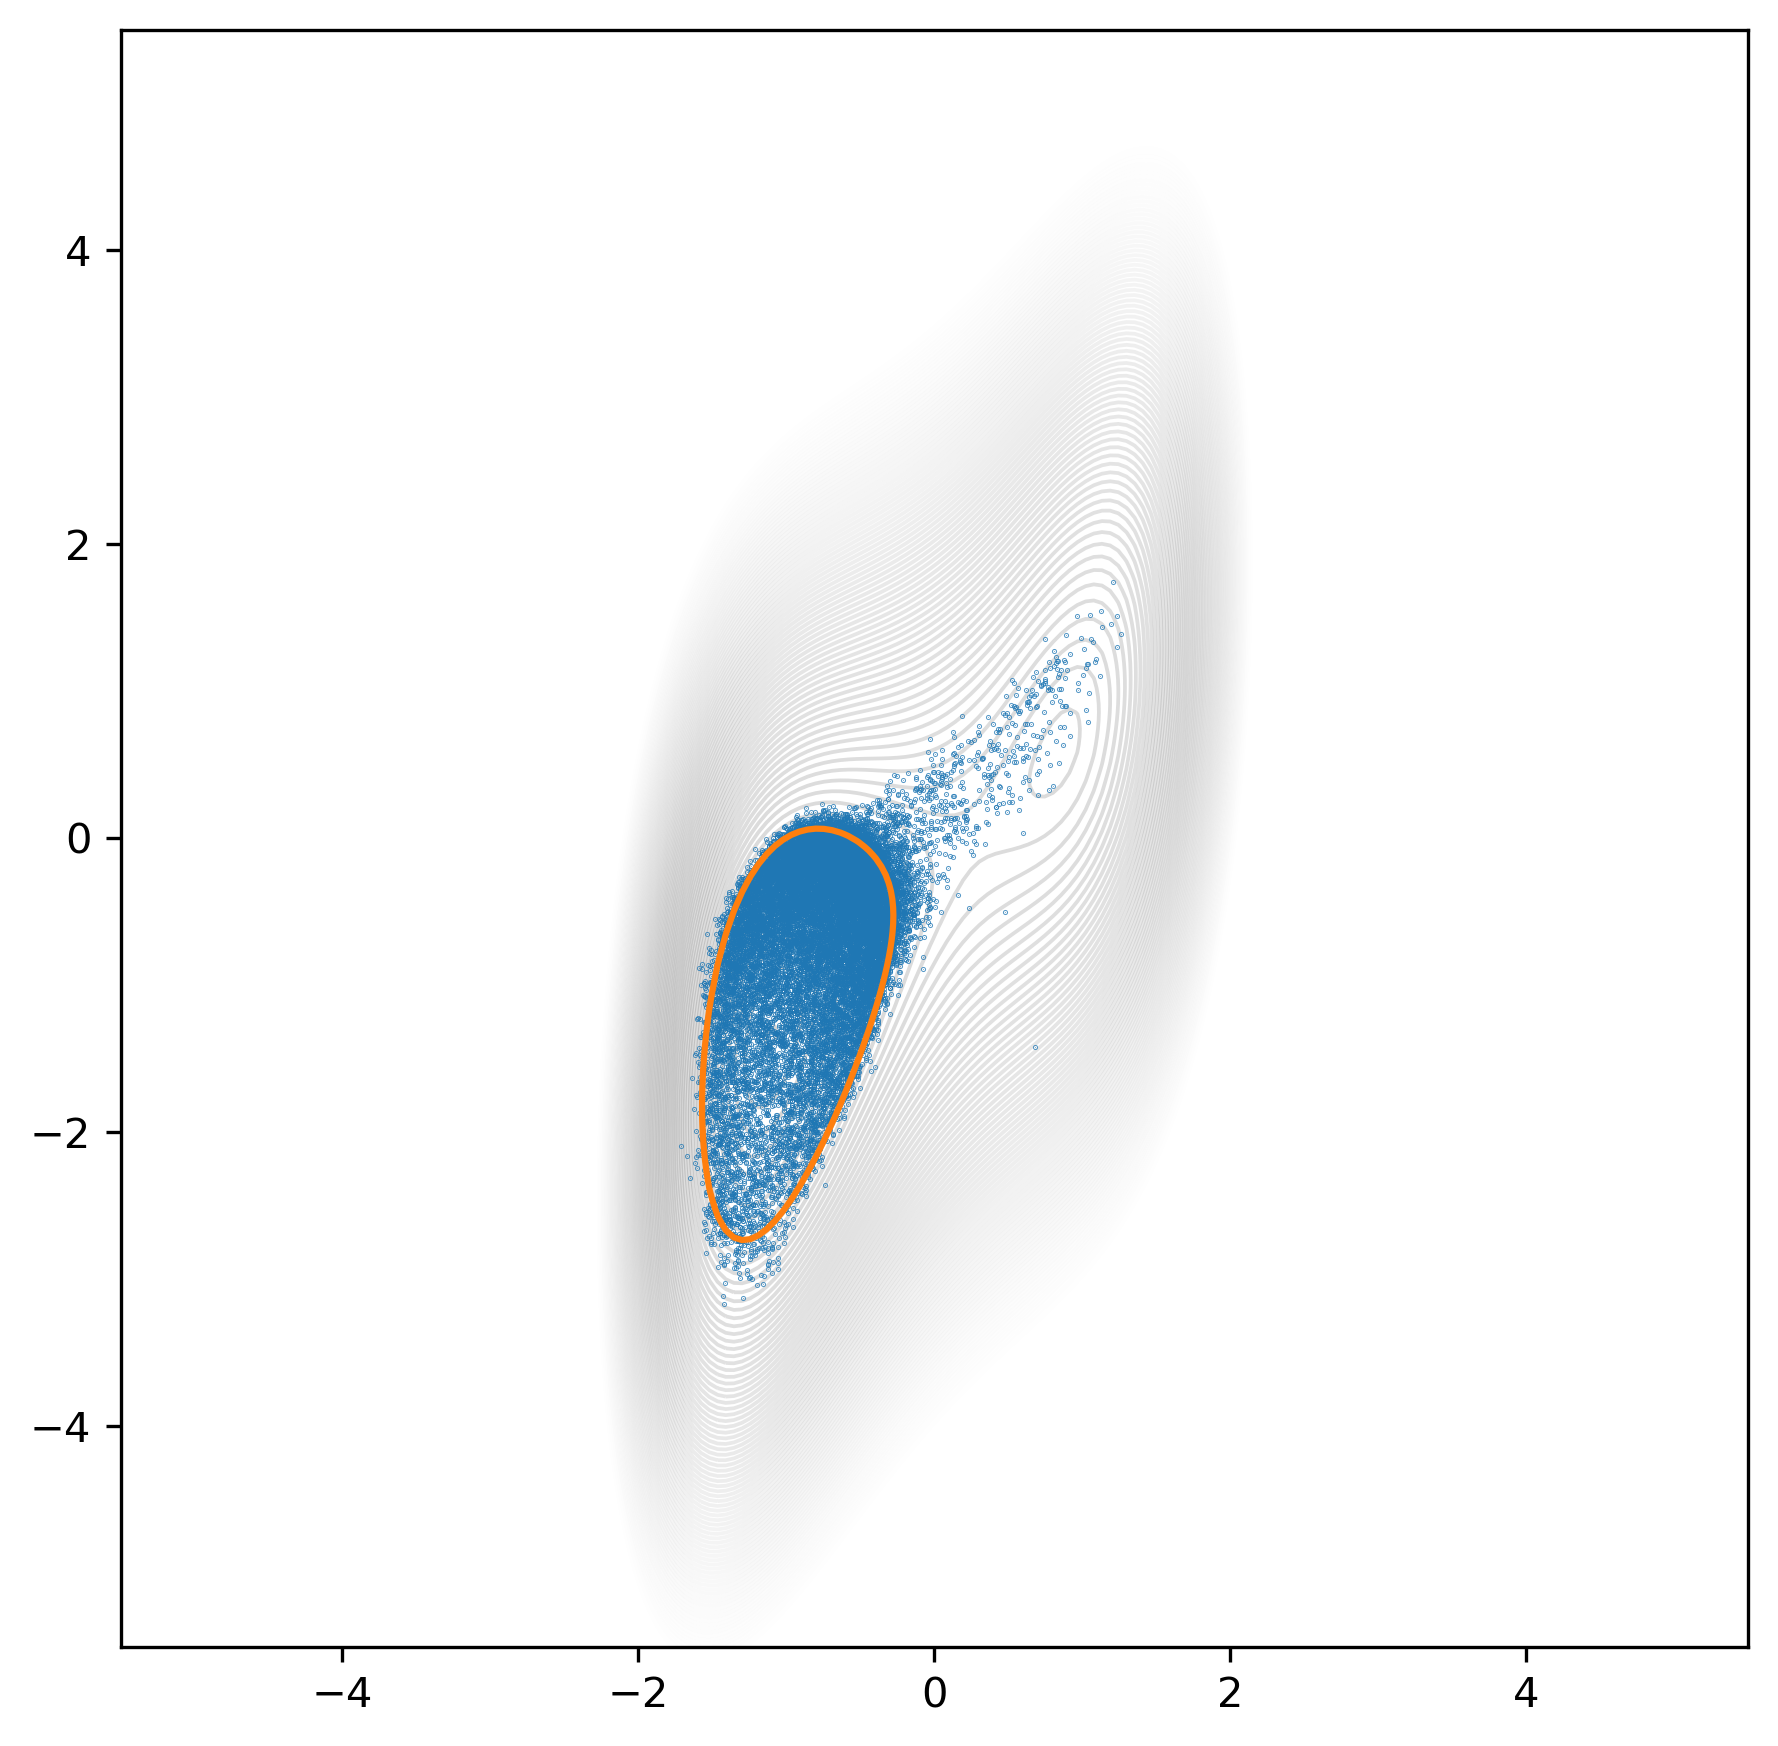
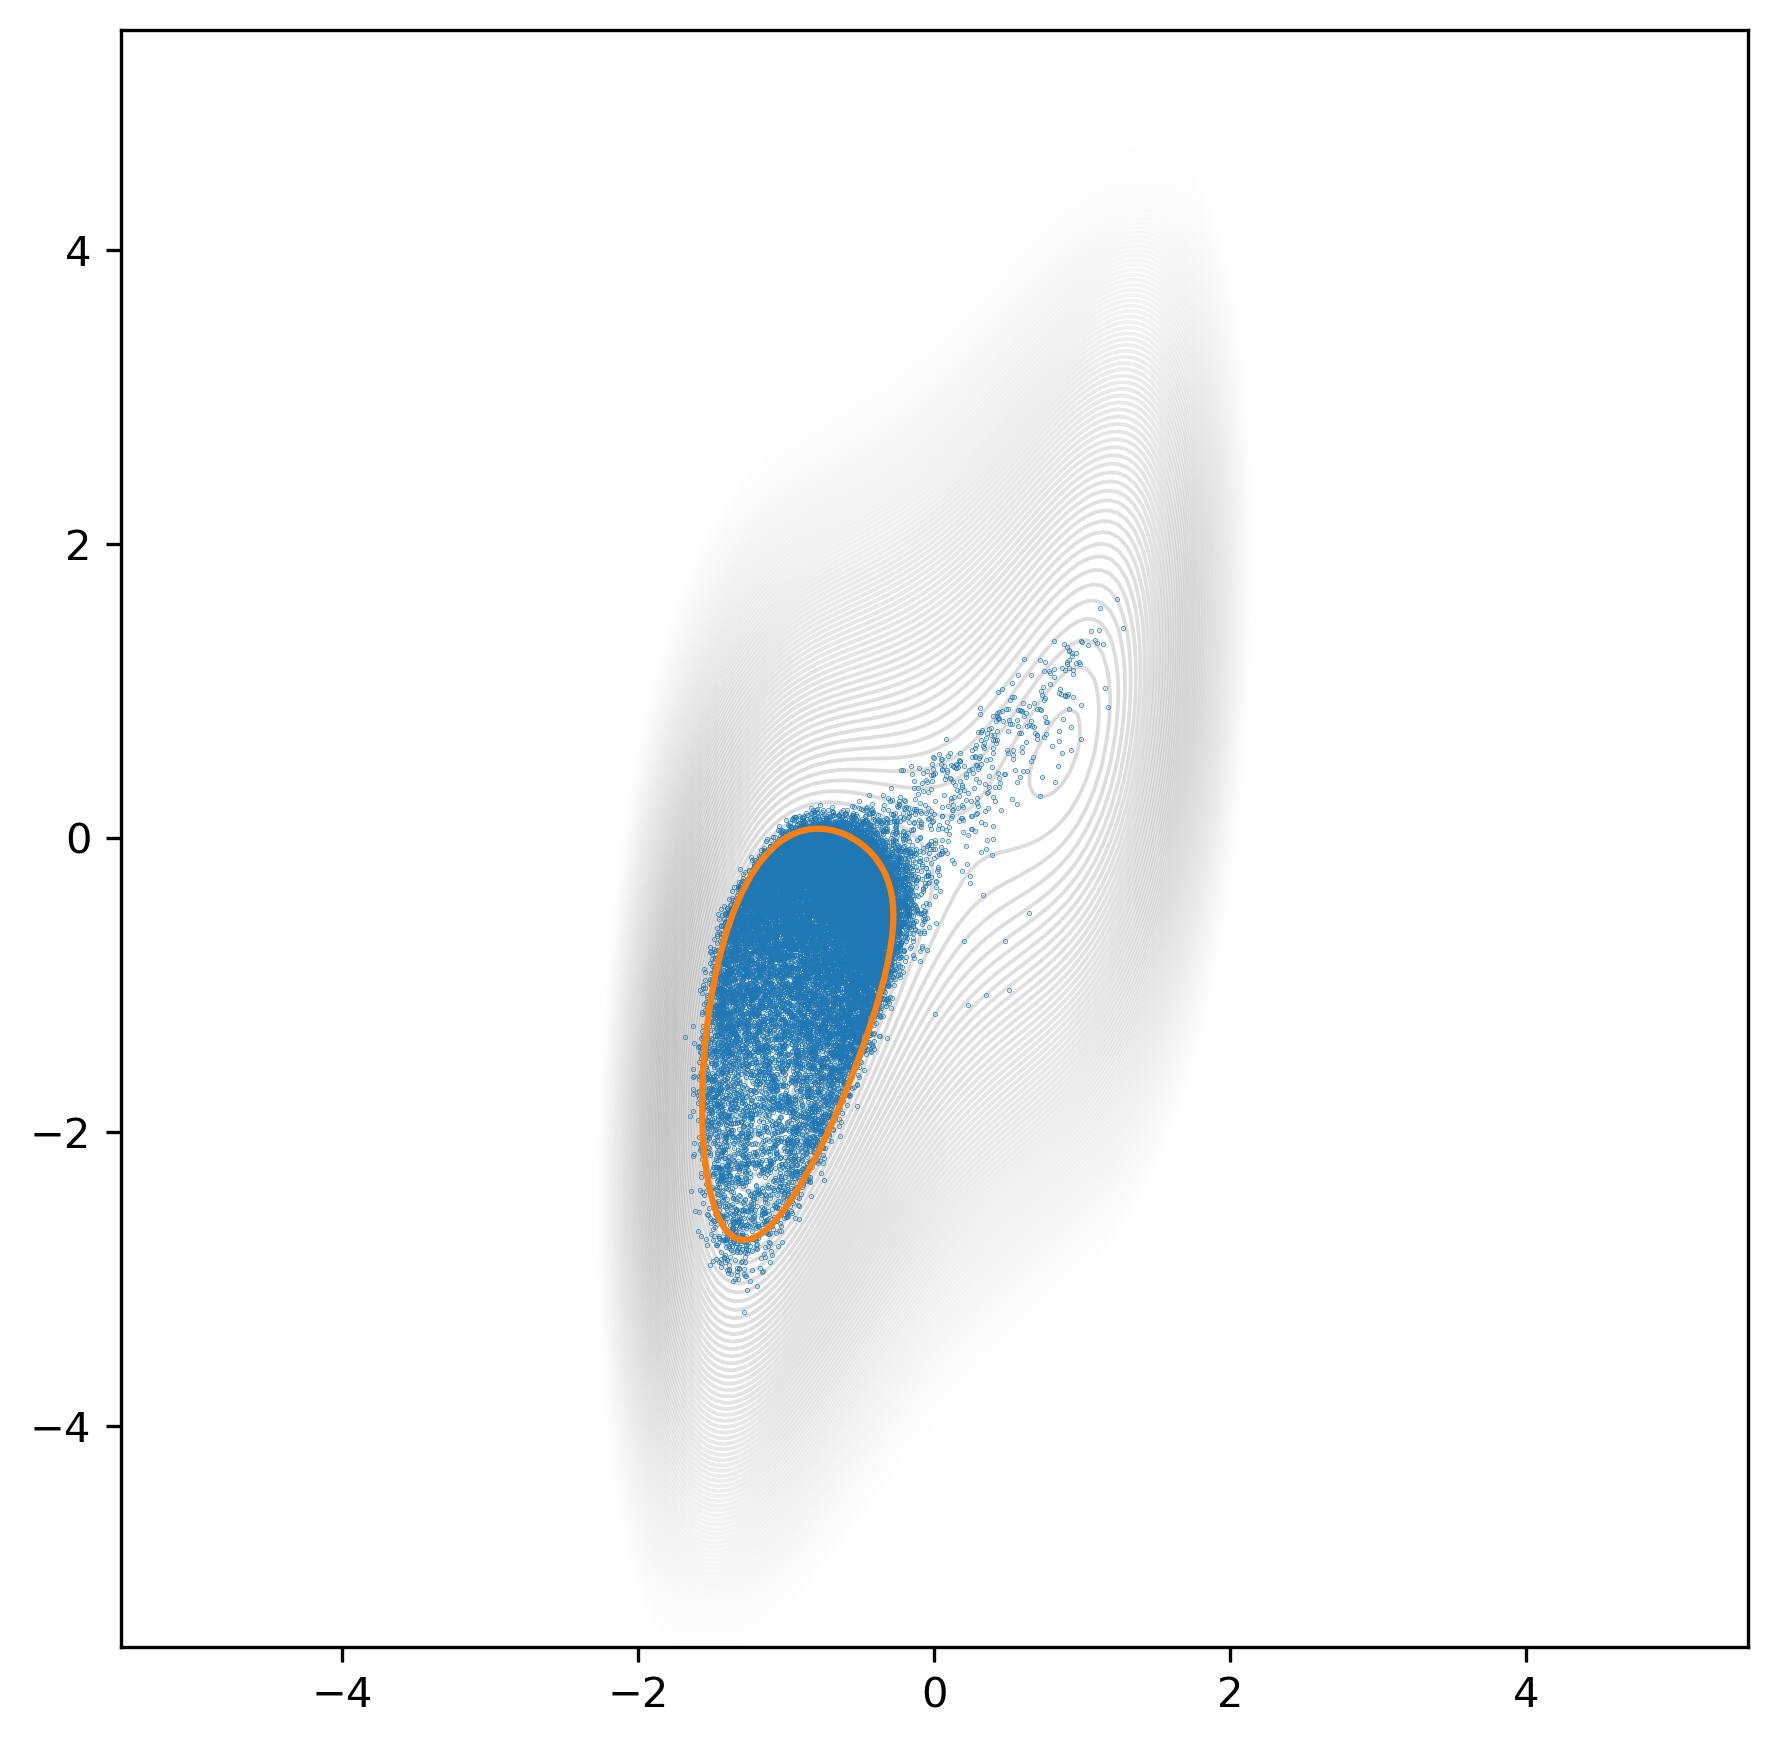
mean disp and histograms

Changed region(s): [[0.3712, 0.3402, 0.6187, 0.7423]]

diff --git a/srcs/sampling.py b/srcs/sampling.py
@@ -64,7 +64,20 @@ def sampling(model_path, z, diffusion_steps, min_beta, max_beta, U_max=0, cond=F
 
 	return denoised_x, displacements
 
-def create_sampling_animation(denoised_x, save_path, duration_seconds=4., original_steps=None):
+def create_sampling_animation(denoised_x, save_path, duration_seconds=4.0, original_steps=None):
+	target_total_frames = 50  # fixed across all animations
+	fps = int(target_total_frames / duration_seconds)
+
+	# Subsample to fixed frame count
+	t_indices = torch.linspace(0, denoised_x.shape[0] - 1, steps=target_total_frames).long()
+	frames = denoised_x[t_indices]
+
+	# Map frame indices back to diffusion steps
+	if original_steps is None:
+		step_map = t_indices.tolist()
+	else:
+		step_map = torch.linspace(0, original_steps - 1, steps=target_total_frames).long().tolist()
+
 	fig, ax = plt.subplots(figsize=(6, 6))
 	scatter = ax.scatter([], [], alpha=0.1, s=1)
 
@@ -76,22 +89,14 @@ def create_sampling_animation(denoised_x, save_path, duration_seconds=4., origin
 		ax.set_title("Sampling")
 		return (scatter,)
 
-	# Create step map to map coarsened frame index to original diffusion step
-	if original_steps is None:
-		step_map = list(range(denoised_x.shape[0]))
-	else:
-		step_map = torch.linspace(0, original_steps - 1, steps=denoised_x.shape[0]).long().tolist()
-
 	def update(rev_t):
-		t = denoised_x.shape[0] - 1 - rev_t
+		t = frames.shape[0] - 1 - rev_t
 		true_t = step_map[t]
-		scatter.set_offsets(denoised_x[t])
+		scatter.set_offsets(frames[t])
 		ax.set_title(f"Sampling - Step {true_t}/{original_steps}")
 		return (scatter,)
 
-	n_frames = len(denoised_x)
-	fps = round(n_frames / duration_seconds)
-	anim = FuncAnimation(fig, update, frames=n_frames, init_func=init, blit=True)
+	anim = FuncAnimation(fig, update, frames=target_total_frames, init_func=init, blit=True)
 	anim.save(save_path, writer="pillow", fps=fps)
 	plt.close(fig)
 
@@ -104,7 +109,7 @@ def mean_displ_split (denoised_x, displacements, bin_size, save_dir, n_understep
 		start = seg * segment_size
 		end = (seg + 1) * segment_size if seg < n_understeps - 1 else T
 
-		positions = denoised_x[start:end]
+		positions = denoised_x[1:][start:end]
 		disps = displacements[start:end]
 
 		x_min, x_max = positions[..., 0].min(), positions[..., 0].max()
@@ -115,18 +120,21 @@ def mean_displ_split (denoised_x, displacements, bin_size, save_dir, n_understep
 
 		pos_flat = positions.reshape(-1, 2)
 		disp_flat = disps.reshape(-1, 2)
-
 		x_idx = ((pos_flat[:, 0] - x_min) / bin_size).long()
 		y_idx = ((pos_flat[:, 1] - y_min) / bin_size).long()
 
+		x_idx = torch.clamp(x_idx, 0, len(x_bins) - 1)
+		y_idx = torch.clamp(y_idx, 0, len(y_bins) - 1)
+		
 		vec_sum = torch.zeros((len(x_bins), len(y_bins), 2))
 		vec_count = torch.zeros((len(x_bins), len(y_bins)))
 
-		for i in range(pos_flat.shape[0]):
-			xi, yi = x_idx[i], y_idx[i]
-			if 0 <= xi < len(x_bins) and 0 <= yi < len(y_bins):
-				vec_sum[xi, yi] += disp_flat[i]
-				vec_count[xi, yi] += 1
+		# checking valid bis
+		valid = (x_idx >= 0) & (x_idx < len(x_bins)) & (y_idx >= 0) & (y_idx < len(y_bins))
+		x_idx, y_idx, disp_flat = x_idx[valid], y_idx[valid], disp_flat[valid]
+		# accumulate bins (vector form)
+		vec_sum.index_put_((x_idx, y_idx), disp_flat, accumulate=True)
+		vec_count.index_put_((x_idx, y_idx), torch.ones_like(x_idx, dtype=vec_count.dtype), accumulate=True)	
 
 		mean_disp = torch.zeros_like(vec_sum)
 		mask = vec_count > 0
@@ -146,18 +154,88 @@ def mean_displ_split (denoised_x, displacements, bin_size, save_dir, n_understep
 		cbar.set_label("Displacement Magnitude")
 
 		ax.set_xlabel("X")
+		ax.set_xlim(-5.5, 5.5)
+		ax.set_ylim(-5.5, 5.5)
 		ax.set_ylabel("Y")
 		ax.set_title(f"Mean Displacement (Steps {start}–{end})")
 
-		save_path = save_dir + f"_{seg}.png"
+		save_path = save_dir + f"_{seg+1}.png"
 		plt.savefig(save_path, dpi=300, bbox_inches='tight')
 		plt.close(fig)
+
+def histo_comparison (x_original, denoised_x, bin_size, save_path):
+    orig_positions = np.vstack(x_original)
+    den_positions = np.vstack(denoised_x)
+
+    # Set grid boundaries
+    x_min, x_max = -5.5, 5.5
+    y_min, y_max = -5.5, 5.5
+    
+    # Calculate number of bins based on bin_size
+    num_bins_x = int((x_max - x_min) / bin_size)
+    num_bins_y = int((y_max - y_min) / bin_size)
+
+    # Compute 2D histogram for original data
+    H_orig, xedges, yedges = np.histogram2d(
+        orig_positions[:, 0],  # x positions
+        orig_positions[:, 1],  # y positions
+        bins=[num_bins_x, num_bins_y],
+        range=[[x_min, x_max], [y_min, y_max]],
+        density=True
+    )
+    
+    # Compute 2D histogram for denoised data
+    H_den, xedges, yedges = np.histogram2d(
+        den_positions[:, 0],  # x positions
+        den_positions[:, 1],  # y positions
+        bins=[num_bins_x, num_bins_y],
+        range=[[x_min, x_max], [y_min, y_max]],
+        density=True
+    )
+
+    # Calculate bin-by-bin difference (original - denoised)
+    H_diff = H_orig - H_den
+
+    # Create figure with 3 subplots
+    fig, axes = plt.subplots(1, 3, figsize=(15, 4), dpi=180)
+
+    # Plot 1: Original histogram
+    im1 = axes[0].imshow(H_orig.T, origin='lower', extent=[x_min, x_max, y_min, y_max], 
+                         vmin=0, vmax=2.5, cmap='hot')
+    axes[0].set_xlabel('x')
+    axes[0].set_ylabel('y')
+    axes[0].set_title('Original')
+    plt.colorbar(im1, ax=axes[0], label='Density')
+
+    # Plot 2: Denoised histogram
+    im2 = axes[1].imshow(H_den.T, origin='lower', extent=[x_min, x_max, y_min, y_max], 
+                         vmin=0, vmax=2.5, cmap='hot')
+    axes[1].set_xlabel('x')
+    axes[1].set_ylabel('y')
+    axes[1].set_title('Denoised')
+    plt.colorbar(im2, ax=axes[1], label='Density')
+
+    # Plot 3: Difference histogram (Original - Denoised)
+    # Use a diverging colormap for the difference plot
+    vmax_diff = max(abs(H_diff.min()), abs(H_diff.max()))
+    im3 = axes[2].imshow(H_diff.T, origin='lower', extent=[x_min, x_max, y_min, y_max], 
+                         vmin=-vmax_diff, vmax=vmax_diff, cmap='RdBu_r')
+    axes[2].set_xlabel('x')
+    axes[2].set_ylabel('y')
+    axes[2].set_title('Difference (Orig - Denoised)')
+    plt.colorbar(im3, ax=axes[2], label='Density Difference')
+
+    plt.tight_layout()
+    plt.savefig(save_path, dpi=300, bbox_inches='tight')
+    plt.close(fig)
+
 
 
 if __name__ == "__main__":
 
 	conditioning = True
 	zeros = False # test by generating not uniform but all zero distribution
+	save_time = False
 	
 	#conf_steps = [1.5e4]
 	conf_steps = [1.5e4, 2e4, 2.6e4, 3.3e4, 5.1e4, 6e4, 7e4, 8.1e4, 9.2e4, 1.5e5]  # Number of configuration steps
@@ -176,9 +254,11 @@ if __name__ == "__main__":
 	dw = double_well(n_particles=n_particles, dimensions=dimensions, device=device, eps=3., c=1., d=0.5)
 
 	sample_num = int(2e4)
-	diffusion_steps = 50
+	diffusion_steps = 1000
 	min_beta = 1e-4
 	max_beta = 0.02
+
+	mean_disp_understeps = 10
 
 	norm_U_to_sample = [0.5, 0.2, 0.01]
 
@@ -187,9 +267,14 @@ if __name__ == "__main__":
 	if conditioning and not zeros:
 		U_max_list = []
 
-		timing_file = f"./resources/sampling_results/conditioning/run_time_smpl_ds{diffusion_steps}.dat"
-		with open(timing_file, "w") as f_time:
-			f_time.write("# U_norm\tSamplingTime_seconds\n")
+		if save_time : 
+			timing_file = f"./resources/sampling_results/conditioning/run_time_smpl_ds{diffusion_steps}.dat"
+			with open(timing_file, "w") as f_time:
+				f_time.write("# U_norm\tSamplingTime_seconds\n")
+
+		metric_file = f"./resources/sampling_results/conditioning/metric_smpl_ds{diffusion_steps}.dat"
+		with open(metric_file, "w") as f_metr:
+			f_metr.write("# U_norm\tAccuracy (% points sampled within U_max)\n")
 
 		print(f"\nSampling total model with diffusion steps : {diffusion_steps}, with conditions {norm_U_to_sample}")
 		for i in range(len(conf_steps)):
@@ -201,9 +286,10 @@ if __name__ == "__main__":
 			start_time = time.time()
 			denoised_x, displacements = sampling(model_path, z, diffusion_steps, min_beta, max_beta, u, True)
 			elapsed_time = time.time() - start_time
-			
-			with open(timing_file, "a") as f_time:
-				f_time.write(f"{u}\t\t\t{elapsed_time:.6f}\n")
+
+			if save_time : 
+				with open(timing_file, "a") as f_time:
+					f_time.write(f"{u}\t\t\t{elapsed_time:.6f}\n")
 			save_path = f"./resources/sampling_results/conditioning/"
 			anim_path = save_path + f"smpl_anim_u={u}_ds{int(diffusion_steps)}"
 			img_path = save_path + f"smpl_img_u={u}_ds{int(diffusion_steps)}"
@@ -215,8 +301,18 @@ if __name__ == "__main__":
 				img_path, denoised_x[0], U_max=U_max, U_max_cont=True, sampling=True
 			)  # Plot the final configuration
 			print(f"Sampling animation & final configuration saved for all configuration steps and input energy = {u}")
-			displ_path = save_path + f"histograms/mean_disp_histo_u={u}_ds{diffusion_steps}"
-			mean_displ_split(denoised_x, displacements, bin_size=0.15, save_dir=displ_path, n_understeps=10)
+	
+			# Mean displacement evolution
+			displ_path = save_path + f"displeacement_evolution/mean_disp_histo_u={u}_ds{diffusion_steps}"
+			mean_displ_split(denoised_x, displacements, bin_size=0.15, save_dir=displ_path, n_understeps=mean_disp_understeps)
+
+			# metric to evaluate accuracy of sampling
+			denoised_fin_u = dw.energy(denoised_x[0])
+			u_mask = denoised_fin_u < U_max
+			u_in_bound = u_mask.sum().item()
+			accuracy = 100 * (u_in_bound / sample_num)
+			with open(metric_file, "a") as f_metr:
+				f_metr.write(f"{u}\t\t\t{accuracy:.2f}%\n")
 
 	elif not zeros :
 		for i in range(len(conf_steps)):
@@ -248,3 +344,5 @@ if __name__ == "__main__":
 				img_path, denoised_x[0], U_max=u, U_max_cont=True, sampling=True
 			)  # Plot the final configuration
 			print(f"Sampling animation & final configuration saved for all configuration steps and input energy = {u}")
+
+	print("\n")

diff --git a/srcs/mixed_routine.py b/srcs/mixed_routine.py
@@ -5,7 +5,7 @@ from class_dataset import ConfigurationsDataset, extract_configuration_from_file
 from train import train, plot_loss
 from nested_smpl import nested_sampling_step, rnd_idx, save_configurations
 from class_double_well_potential import double_well
-from sampling import sampling
+from sampling import sampling, histo_comparison
 
 
 if __name__ == "__main__":
@@ -160,6 +160,11 @@ if __name__ == "__main__":
 		final_step_samples = sampled_x_trajectory[0, :, :]
 		#print(f"Shape of final_step_samples: {final_step_samples.shape}")
 		save_configurations(dw, final_step_samples, [routine_step+1], U_max, dir_prefix, plot=True, mixed=True, sampled=True)
+
+		# Histogram to visualize accuracy 
+		histo_path = dir_prefix + f"histo_comparison_step{routine_step}"
+		histo_comparison(x, final_step_samples, bin_size=0.2, save_path=histo_path)
+		# Accuracy calculation on output file
 
 
 		### Using the model-generated data to progress the sampling algorithm
